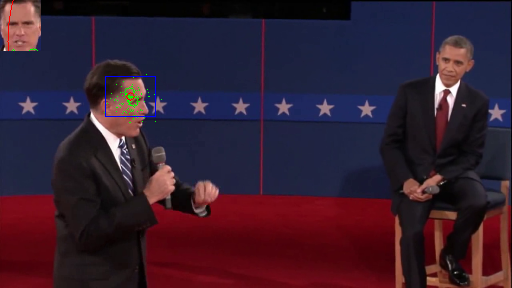
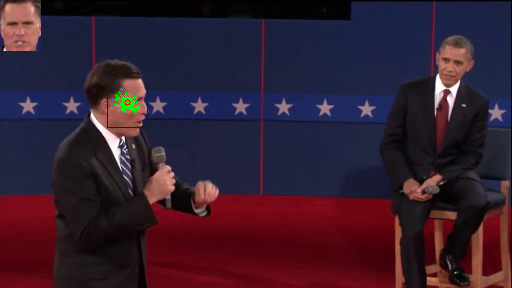
Added problem set - 6's p2 + added updates to filter & tracker classes

Changed region(s): [[0.1875, 0.25, 0.3125, 0.4062], [0.2188, 0.4375, 0.2812, 0.4688]]

diff --git a/ps_6/template_tracking_pf.py b/ps_6/template_tracking_pf.py
@@ -10,16 +10,17 @@ class TemplateTrackingPF:
     """
 
     def __init__(self, first_frame=None, track_box=None, template=None, state_range=None, dynamics_std=10,
-                 sigma_mse=0.5, frame_shape=None, num_particles=100):
+                 sigma_mse=0.5, frame_shape=None, num_particles=100, similarity_method='mse',
+                 state_est='top_70_percentile', prior='gaussian', t_update_factor=0):
         if first_frame is not None:
             if track_box is not None:
                 x, y, w, h = track_box
-                self.template = first_frame[y:y + h, x:x + w, ...]
+                self.template = first_frame[y:y + h, x:x + w, ...].copy()
             else:
                 raise Exception("Either template or tracking window box has to be provided as init arg")
             self.frame_shape = first_frame.shape
             self.state_range = np.asarray([np.arange(x) for x in first_frame.shape[:2]])
-        self.template = [template, self.template][template is None]
+        self.template = ([template, self.template][template is None]).astype(np.float32)
         self.validate_template_w(self.template.shape)
         self.window_hw = np.asarray(self.template.shape[:2]) // 2
         self.frame_shape = [frame_shape, self.frame_shape][frame_shape is None]
@@ -27,27 +28,63 @@ class TemplateTrackingPF:
         self.dynamics_std = dynamics_std
         self.sigma_mse = sigma_mse
         self.num_particles = num_particles
+        self.t_update_factor = t_update_factor
         self.particle_filter = ParticleFilter(self.state_range, dynamics_model_fn=self.dynamics_model,
-                                              score_particle_fn=self.score_particle,
-                                              clip_particles_fn=self.clip_particles_states, num_particles=num_particles)
+                                              score_particle_fn=self.get_similarity_fn(similarity_method),
+                                              clip_particles_fn=self.clip_particles_states, num_particles=num_particles,
+                                              state_est=state_est, prior_st=self.prior_fn(prior, track_box))
+
+    def prior_fn(self, prior, track_box):
+        x, y, w, h = track_box
+        if prior == 'gaussian':
+            return self.clip_particles_states(
+                np.asarray([y + h // 2, x + w // 2]) + np.random.normal(0, np.linalg.norm(track_box[2:]),
+                                                                        (self.num_particles, 2)))
+        elif prior == 'random':
+            i_s = np.random.choice(np.arange(self.frame_shape[0]), self.num_particles)
+            j_s = np.random.choice(np.arange(self.frame_shape[1]), self.num_particles)
+            return np.concatenate([i_s[:, np.newaxis], j_s[:, np.newaxis]], axis=1).astype(np.float32)
+        elif prior == 'uniform':
+            i_s = np.random.uniform(0, self.frame_shape[0], self.num_particles)
+            j_s = np.random.uniform(0, self.frame_shape[1], self.num_particles)
+            return np.concatenate([i_s[:, np.newaxis], j_s[:, np.newaxis]], axis=1).astype(np.float32)
 
     def dynamics_model(self, particle_states, action):
         particle_states += np.random.normal(0, self.dynamics_std, particle_states.shape)
         return particle_states
 
-    def score_particle(self, particle_states, observation):
+    def get_similarity_fn(self, similarity_method):
+        if similarity_method == 'mse':
+            return self.score_particle_mse
+        elif similarity_method == 'ncorr':
+            return self.score_particle_ncorr
+        else:
+            raise Exception("no such simmilarity method %s" % similarity_method)
+
+    def score_particle_mse(self, particle_states, observation):
         candidate_patches = [observation[int(pos[0]) - self.window_hw[0]:int(pos[0]) + self.window_hw[0] + 1,
-                             int(pos[1]) - self.window_hw[1]:int(pos[1]) + self.window_hw[1] + 1, ...] for pos in
-                             particle_states]
-        return [np.exp(-np.square(patch - self.template).mean() / 2 / self.sigma_mse ** 2) for patch in
+                             int(pos[1]) - self.window_hw[1]:int(pos[1]) + self.window_hw[1] + 1, ...].astype(
+            np.float32) for pos in particle_states]
+        return [np.exp(-np.square(np.subtract(patch, self.template)).mean() / (
+                2 * self.sigma_mse ** 2)) for patch in
                 candidate_patches]
 
+    def score_particle_ncorr(self, particle_states, observation):
+        candidate_patches = [observation[int(pos[0]) - self.window_hw[0]:int(pos[0]) + self.window_hw[0] + 1,
+                             int(pos[1]) - self.window_hw[1]:int(pos[1]) + self.window_hw[1] + 1, ...].astype(
+            np.float32) for pos in particle_states]
+        return [1+np.mean((self.template - self.template.mean()) * (p - p.mean())) / (np.std(p) * np.std(self.template))
+                for p in candidate_patches]
+
     def clip_particles_states(self, particle_states):
-        # return particle_states[
-        #     ((self.window_hw[0] <= particle_states[:, 0]) * (
-        #                 particle_states[:, 0] <= (self.frame_shape[0] - self.window_hw[0]))) * (
-        #                 (self.window_hw[1] <= particle_states[:, 1]) * (
-        #                     particle_states[:, 1] <= (self.frame_shape[1] - self.window_hw[1]))), ...]
+        """
+        uncomment this snippet to cut off the particles falling outside instead of clipping to nearest bound
+        return particle_states[
+            ((self.window_hw[0] <= particle_states[:, 0]) * (
+                        particle_states[:, 0] <= (self.frame_shape[0] - self.window_hw[0]))) * (
+                        (self.window_hw[1] <= particle_states[:, 1]) * (
+                            particle_states[:, 1] <= (self.frame_shape[1] - self.window_hw[1]))), ...]
+        """
         particle_states[:, 0] = np.clip(particle_states[:, 0], self.window_hw[0],
                                         self.frame_shape[0] - self.window_hw[0] - 1)
         particle_states[:, 1] = np.clip(particle_states[:, 1], self.window_hw[1],
@@ -56,6 +93,14 @@ class TemplateTrackingPF:
 
     def update(self, frame):
         self.particle_filter.update(frame, None)
+        if self.t_update_factor != 0:
+            self.update_template(frame)
+
+    def update_template(self, frame):
+        pos = self.particle_filter.get_state()[:2]
+        best = frame[int(pos[0]) - self.window_hw[0]:int(pos[0]) + self.window_hw[0] + 1,
+               int(pos[1]) - self.window_hw[1]:int(pos[1]) + self.window_hw[1] + 1, ...]
+        self.template = best * self.t_update_factor + (1 - self.t_update_factor) * self.template
 
     def visualize_frame(self, frame):
         self.draw_particles(frame)
@@ -67,14 +112,14 @@ class TemplateTrackingPF:
         frame[:self.template.shape[0], :self.template.shape[1], ...] = self.template
 
     def draw_particles(self, frame):
-        [cv.circle(frame, p[1::-1].astype(np.int32), radius=min(int(w * self.num_particles), 5), color=(0, 255, 0)) for
-         p, w in
+        [cv.circle(frame, p[1::-1].astype(np.int32), radius=max(min(int(w * self.num_particles), 5), 1),
+                   color=(0, 255, 0)) for p, w in
          zip(self.particle_filter.get_particle_states(), self.particle_filter.get_particle_weights())]
 
     def draw_window(self, frame):
         center_xy = self.particle_filter.get_state()[1::-1]
-        cv.rectangle(frame, (center_xy - self.window_hw).astype(np.int32),
-                     (center_xy + self.window_hw).astype(np.int32), color=(0, 0, 255), thickness=1)
+        cv.rectangle(frame, (center_xy - self.window_hw[1::-1]).astype(np.int32),
+                     (center_xy + self.window_hw[1::-1]).astype(np.int32), color=(0, 0, 255), thickness=1)
 
     def draw_std_circle(self, frame):
         center_xy = self.particle_filter.get_state()[1::-1]

diff --git a/ps_6/ps6.py b/ps_6/ps6.py
@@ -14,17 +14,56 @@ def read_box(path):
 def p1_a():
     frames = get_frames_from_video('input/pres_debate.avi', resize_to=(512, 288))
     patch_box = (read_box('input/pres_debate.txt') * 2 / 5).astype(np.int32)
-    track_patch(frames, patch_box, frames_to_save=[28, 88, 144], output_format='output/ps6-1-a-%s.png')
+    track_patch(frames, patch_box, frames_to_save=[28, 88, 144], output_format='output/ps6-1-a-%s.png', sigma_mse=10,
+                dynamics_std=5.0, num_particles=100, prior='gaussian', similarity_method='mse')
 
 
 def p1_e():
     frames = get_frames_from_video('input/noisy_debate.avi', resize_to=(512, 288))
     patch_box = (read_box('input/noisy_debate.txt') * 2 / 5).astype(np.int32)
-    track_patch(frames, patch_box, frames_to_save=[28, 88, 144], output_format='output/ps6-1-e-%s.png')
+    track_patch(frames, patch_box, frames_to_save=[14, 32, 46], output_format='output/ps6-1-e-%s.png', sigma_mse=10.0,
+                dynamics_std=5.0, num_particles=50, state_est='top_quarter')
+
+
+def p1_exp():
+    print('tracking Obama')
+    frames = get_frames_from_video('input/pres_debate.avi', resize_to=(512, 288))
+    patch_box = (read_box('input/pres_debate_exp.txt') * 2 / 5).astype(np.int32)
+    track_patch(frames, patch_box, frames_to_save=[28, 88, 144], output_format='output/ps6-1-exp-%s.png',
+                sigma_mse=10.0, dynamics_std=10.0, num_particles=200, state_est='top_70_percentile')
+
+
+def p1_exp_l():
+    print('tracking lally')
+    frames = get_frames_from_video('input/lally_jumping.mp4', resize_to=(320, 176))
+    patch_box = (read_box('input/lally_jumping.txt') / 2.0).astype(np.int32)
+    track_patch(frames, patch_box, frames_to_save=[28, 88, 144], output_format='output/ps6-1-exp_l-%s.png',
+                sigma_mse=10.0, dynamics_std=5.0, num_particles=300, state_est='top_70_percentile', prior='gaussian',
+                t_update_factor=0.01)
+
+
+def p2_a():
+    frames = get_frames_from_video('input/pres_debate.avi')
+    patch_box = (read_box('input/romneys_hand.txt')).astype(np.int32)
+    track_patch(frames, patch_box, frames_to_save=[15, 50, 140], output_format='output/ps6-2-a-%s.png', sigma_mse=10,
+                dynamics_std=20.0, num_particles=300, prior='gaussian', t_update_factor=0.05)
+
+
+def p2_b():
+    frames = get_frames_from_video('input/noisy_debate.avi')
+    patch_box = (read_box('input/romneys_hand.txt')).astype(np.int32)
+    # below params just does the job to track his hand until mid of the video. A noise tolerant template update logic
+    # might help the tracker to maintain the target
+    track_patch(frames, patch_box, frames_to_save=[15, 50, 140], output_format='output/ps6-2-b-%s.png', sigma_mse=2.5,
+                dynamics_std=30.0, num_particles=500, prior='gaussian', t_update_factor=0.3, state_est='top_quarter')
 
 
 if __name__ == '__main__':
     print('Running p1_a')
-    p1_a()
-    # print('Running p1_e')
+    # p1_a()
+    print('Running p1_e')
     # p1_e()
+    # p1_exp()
+    # p1_exp_l()
+    # p2_a()
+    p2_b()

diff --git a/ps_6/particle_filter.py b/ps_6/particle_filter.py
@@ -10,16 +10,20 @@ class ParticleFilter:
     """
 
     def __init__(self, state_range, dynamics_model_fn, score_particle_fn, diffuse_fn=lambda x: x,
-                 clip_particles_fn=lambda x: x, num_particles=100):
+                 clip_particles_fn=lambda x: x, num_particles=100, state_est='top_70_percentile', prior_st=None):
         self.state_range = state_range
         self.num_particles = num_particles
-        self.particle_states = np.asarray(
-            [random.sample(list(range_), num_particles) for range_ in self.state_range]).T.astype(np.float32)
+        if prior_st is None:
+            self.particle_states = np.asarray(
+                [random.sample(list(range_), num_particles) for range_ in self.state_range]).T.astype(np.float32)
+        else:
+            self.particle_states = prior_st
         self.particle_weights = np.ones(num_particles) / num_particles
         self.dynamics_model = dynamics_model_fn
         self.score_particle_fn = score_particle_fn
         self.diffuse_fn = diffuse_fn
         self.clip_particles_fn = clip_particles_fn
+        self.state_est = state_est
         self.state = self.particle_states[0]
 
     def update(self, observation, action):
@@ -50,7 +54,14 @@ class ParticleFilter:
         self.particle_weights = scores / scores.sum()
 
     def update_state(self):
-        self.state = (self.particle_states * self.particle_weights.reshape((-1, 1))).sum(axis=0)
+        if self.state_est == 'top_70_percentile':
+            idx = self.particle_weights > self.particle_weights.max() * .7
+        elif self.state_est == 'top_quarter':
+            idx = self.particle_weights.argsort()[-int(self.num_particles * 0.25):][::-1]
+        else:
+            idx = slice(None, None, None)
+        self.state = (self.particle_states[idx, ...] * self.particle_weights[idx].reshape((-1, 1))).sum(axis=0) / \
+                     self.particle_weights[idx].sum()
 
     def get_particle_states(self):
         return self.particle_states

diff --git a/ps_6/helper.py b/ps_6/helper.py
@@ -1,18 +1,20 @@
 import cv2 as cv
 from ps_6.template_tracking_pf import TemplateTrackingPF
 from ps_hepers.helpers import imsave
+import time
 
 
-def track_patch(frames, track_box, frames_to_save, output_format):
-    tracker_pf = TemplateTrackingPF(first_frame=frames[0], track_box=track_box.flatten(), num_particles=100)
+def track_patch(frames, track_box, frames_to_save, output_format, **kwargs):
+    tracker_pf = TemplateTrackingPF(first_frame=frames[0], track_box=track_box.flatten(), **kwargs)
     for i in range(len(frames)):
+        t = time.time()
         frame = frames[i]
         print('Running frame %s' % i)
         tracker_pf.update(frame)
         tracker_pf.visualize_frame(frame)
-        if cv.waitKey(50) & 0xFF == ord('q'):
+        # wait_time =  int(33 - time.time() + t)
+        if cv.waitKey(1) & 0xFF == ord('q'):
             break
         cv.imshow('tracker', cv.cvtColor(frame, cv.COLOR_RGB2BGR))
         if i+1 in frames_to_save:
             imsave(frame, output_format % (frames_to_save.index(i+1)+1))
-
